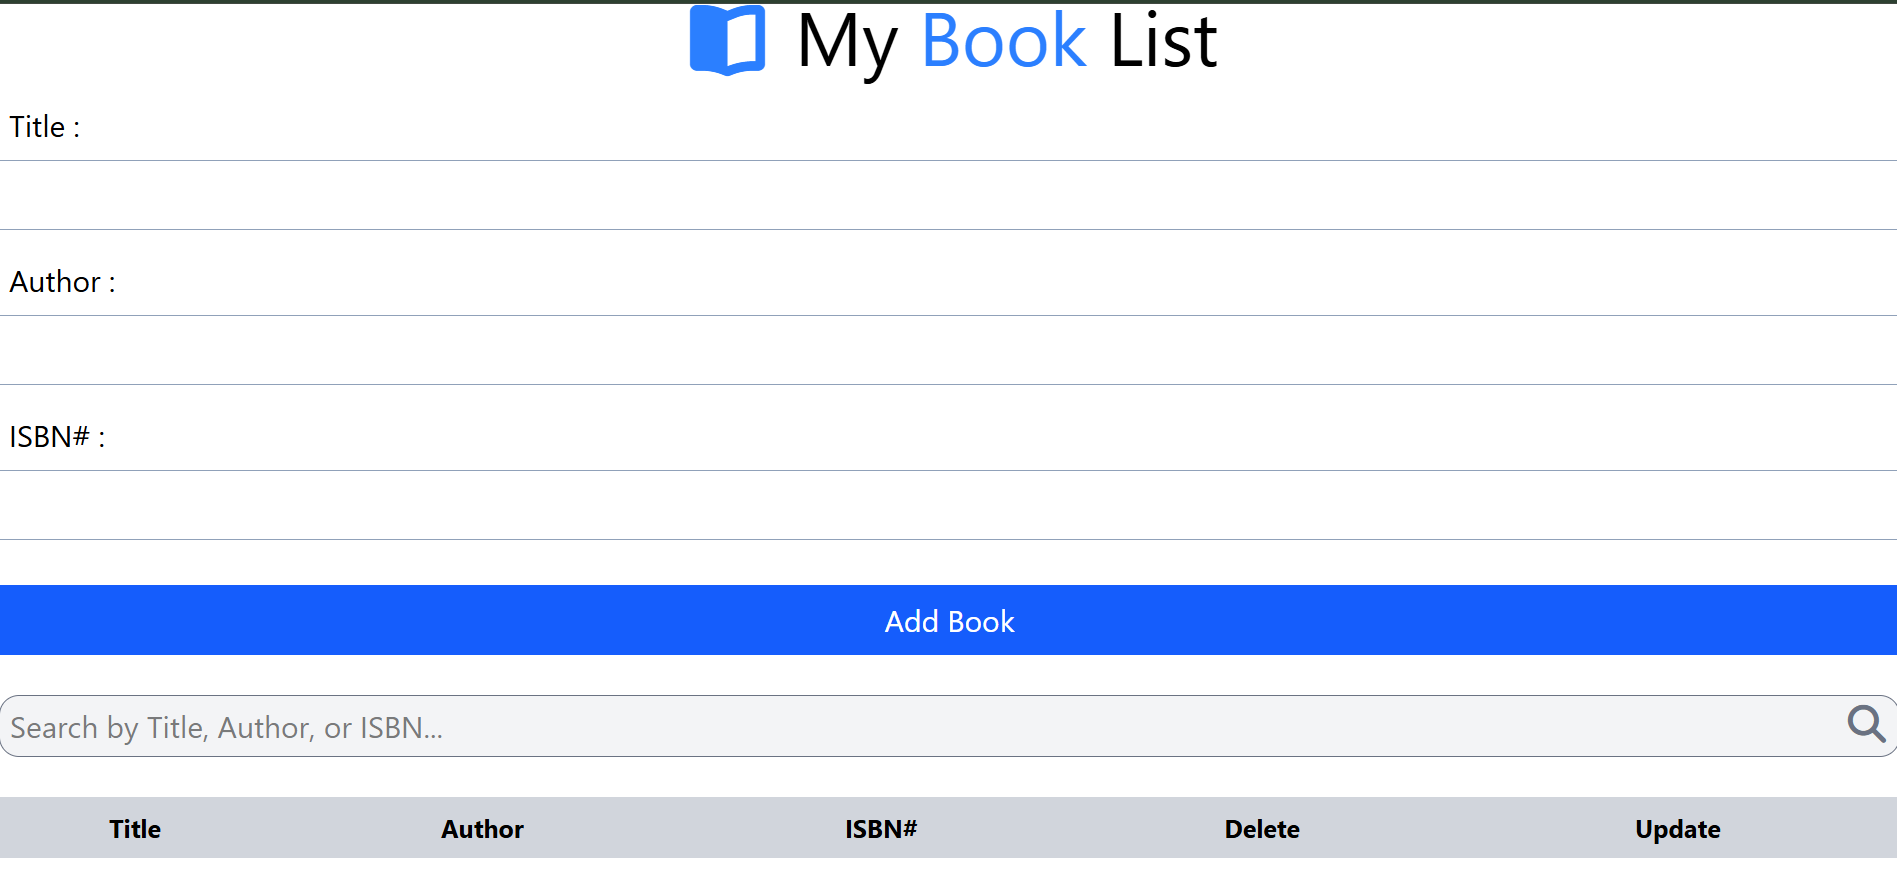
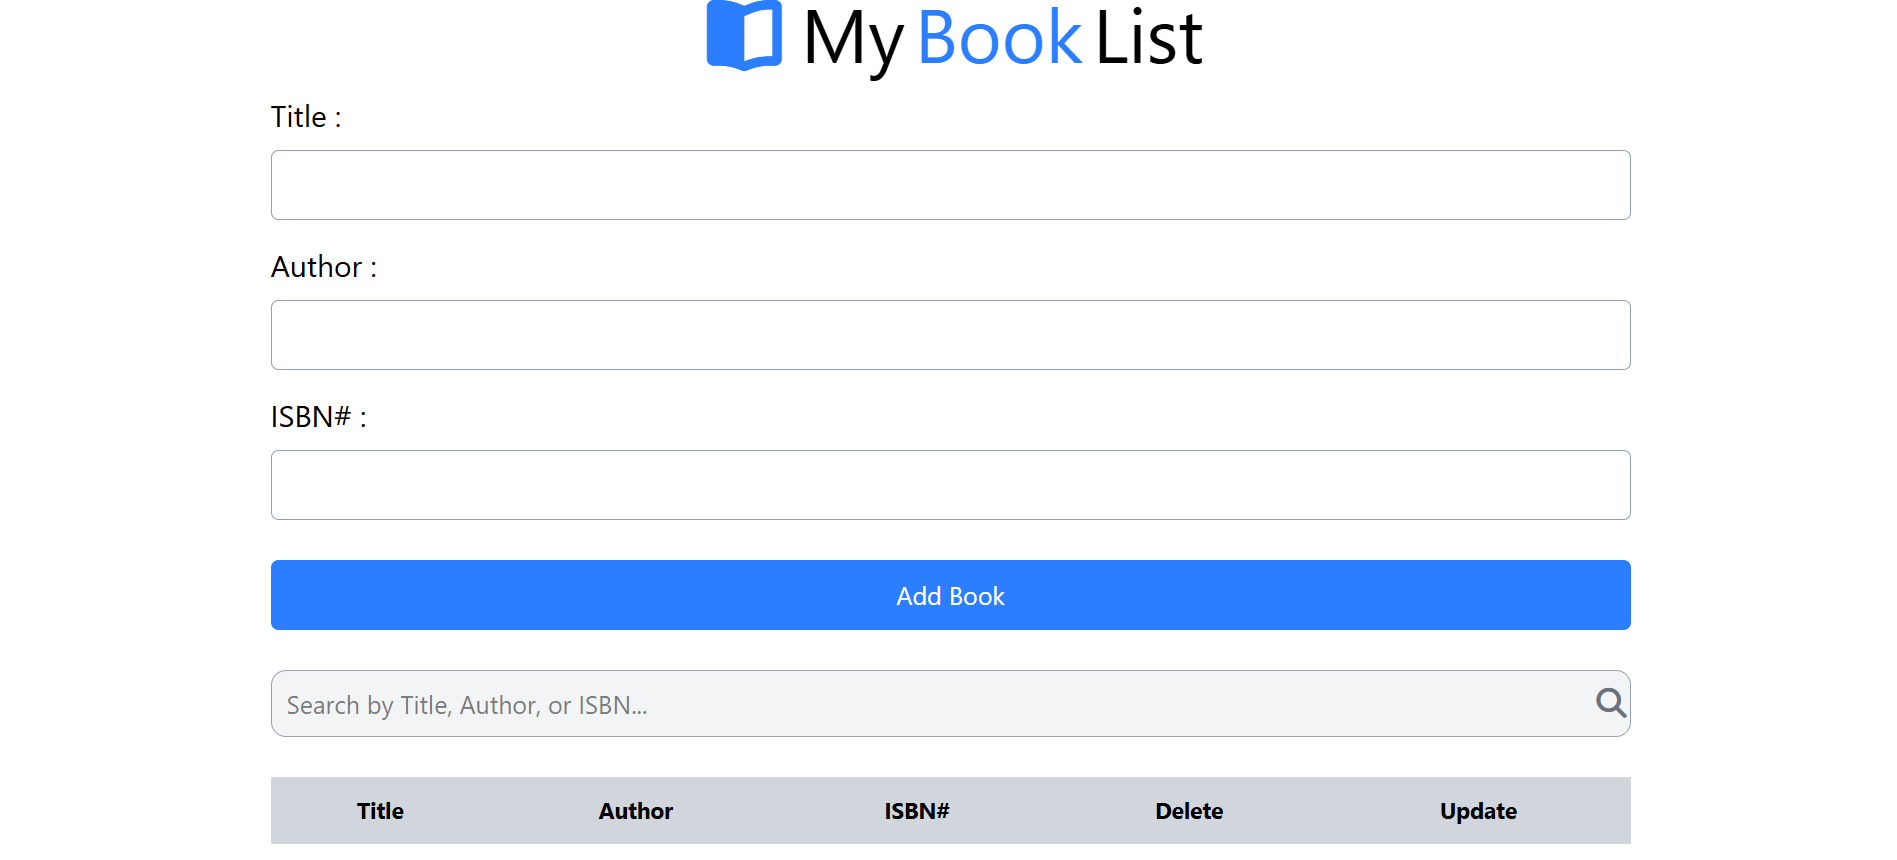
added responsiveness to the application

diff --git a/index.html b/index.html
@@ -14,65 +14,77 @@
     <title>My Book List</title>
   </head>
   <body>
-    <div class="container mt-4 mx-auto">
-      <h1 class="text-6xl text-center">
+    <div class="container max-w-6xl mx-auto px-4 sm:px-6 lg:px-8 mt-4">
+      <h1
+        class="text-3xl sm:text-5xl md:text-6xl text-center flex justify-center items-center gap-2 flex-wraptext-lg sm:text-xl md:text-2xl"
+      >
         <i class="fa fa-book-open text-blue-500"></i>
 
         My<span class="text-blue-500"> Book</span> List
       </h1>
       <form id="book-form">
-        <div class="my-6">
-          <label for="title" class="text-2xl ml-2">Title :</label><br />
+        <div class="my-5">
+          <label for="title" class="text-lg sm:text-xl md:text-2xl"
+            >Title :</label
+          ><br />
           <input
             id="title"
             type="text"
-            class="w-full h-14 mt-3 px-4 py-2 border border-slate-400"
+            class="w-full h-12 sm:h-14 mt-3 px-4 py-2 border border-slate-400 rounded-md focus:outline-none focus:ring-2 focus:ring-blue-500"
           />
         </div>
-        <div class="my-6">
-          <label for="author" class="text-2xl ml-2">Author :</label><br />
+        <div class="my-5">
+          <label for="author" class="text-lg sm:text-xl md:text-2xl"
+            >Author :</label
+          ><br />
           <input
             id="author"
             type="text"
-            class="w-full h-14 mt-3 px-4 py-2 border border-slate-400"
+            class="w-full h-12 sm:h-14 mt-3 px-4 py-2 border border-slate-400 rounded-md focus:outline-none focus:ring-2 focus:ring-blue-500"
           />
         </div>
-        <div class="my-6">
-          <label for="isbn" class="text-2xl ml-2">ISBN# :</label><br />
+        <div class="my-5">
+          <label for="isbn" class="text-lg sm:text-xl md:text-2xl"
+            >ISBN# :</label
+          ><br />
           <input
             id="isbn"
             type="text"
-            class="w-full h-14 mt-3 px-4 py-2 border border-slate-400"
+            class="w-full h-12 sm:h-14 mt-3 px-4 py-2 border border-slate-400 rounded-md focus:outline-none focus:ring-2 focus:ring-blue-500"
           />
         </div>
         <div>
           <input
             type="submit"
             value="Add Book"
-            class="bg-blue-500 text-white w-full h-14 mt-3 text-2xl hover:bg-blue-600 hover:cursor-pointer"
+            class="bg-blue-500 hover:bg-blue-600 text-white w-full h-12 sm:h-14 mt-3 text-lg sm:text-xl rounded-md cursor-pointer hover:bg-blue-600 hover:cursor-pointer"
           />
         </div>
       </form>
-      <div class="mt-8 flex justify-between border border-gray-500 rounded-2xl bg-gray-100">
+      <div
+        class="mt-8 flex items-center border border-gray-400 rounded-xl bg-gray-100 overflow-hidden"
+      >
         <input
           type="text"
           placeholder="Search by Title, Author, or ISBN..."
-          class="search focus:outline-none p-2 text-2xl w-full"
+          class="search w-full p-3 text-base sm:text-lg md:text-xl bg-transparent focus:outline-none"
         />
-        <i class="fa fa-search text-3xl m-2 text-gray-500"></i>
+        <i class="fa fa-search text-xl sm:text-2xl text-gray-500"></i>
       </div>
-      <table class="min-w-full border border-gray-300 mt-8 mr-4 mb-24 ">
-        <thead class="bg-gray-300 h-12">
-          <tr>
-            <th class="text-xl">Title</th>
-            <th class="text-xl">Author</th>
-            <th class="text-xl">ISBN#</th>
-            <th class="text-xl">Delete</th>
-            <th class="text-xl">Update</th>
-          </tr>
-        </thead>
-        <tbody id="book-list" class="h-12 text-center "></tbody>
-      </table>
+      <div class="overflow-x-auto mt-8 mb-24">
+        <table class="min-w-full border border-gray-300">
+          <thead class="bg-gray-300 h-12">
+            <tr>
+              <th class="text-sm sm:text-lg px-3 py-3">Title</th>
+              <th class="text-sm sm:text-lg px-3 py-3">Author</th>
+              <th class="text-sm sm:text-lg px-3 py-3">ISBN#</th>
+              <th class="text-sm sm:text-lg px-3 py-3">Delete</th>
+              <th class="text-sm sm:text-lg px-3 py-3">Update</th>
+            </tr>
+          </thead>
+          <tbody id="book-list" class="h-12 text-center"></tbody>
+        </table>
+      </div>
     </div>
     <script src="script.js"></script>
   </body>

diff --git a/script.js b/script.js
@@ -18,16 +18,16 @@ class UI {
     const list = document.querySelector("#book-list");
 
     const row = document.createElement("tr");
-    row.className = `bg-white`
+    row.className = `bg-white`;
     row.innerHTML = `
-    <td class="py-4 px-3">${book.title}</td>
-    <td>${book.author}</td>
-    <td>${book.isbn}</td>
+    <td class="py-3 px-3 text-sm sm:text-base">${book.title}</td>
+    <td class="text-sm sm:text-base">${book.author}</td>
+    <td class="text-sm sm:text-base">${book.isbn}</td>
     <td>
-    <a href = "#" class= "bg-red-500 text-white p-2 px-3 rounded-lg  delete">X</a>
+    <a href = "#" class= "bg-red-500 text-white px-3 py-2 rounded-lg  delete">X</a>
     </td>
     <td>
-    <a href = "#" class= "bg-gray-500 text-white p-2 rounded-lg  update">
+    <a href = "#" class= "bg-gray-500 text-white px-3 py-2 rounded-lg  update">
     <i class="fa-regular fa-pen-to-square"></i>
     </a>
     </td>
@@ -204,7 +204,6 @@ document.querySelector("#book-list").addEventListener("click", (e) => {
   if (editBtn) {
     UI.editBook(editBtn);
   }
-
 });
 
 // Event : Search / Filter books